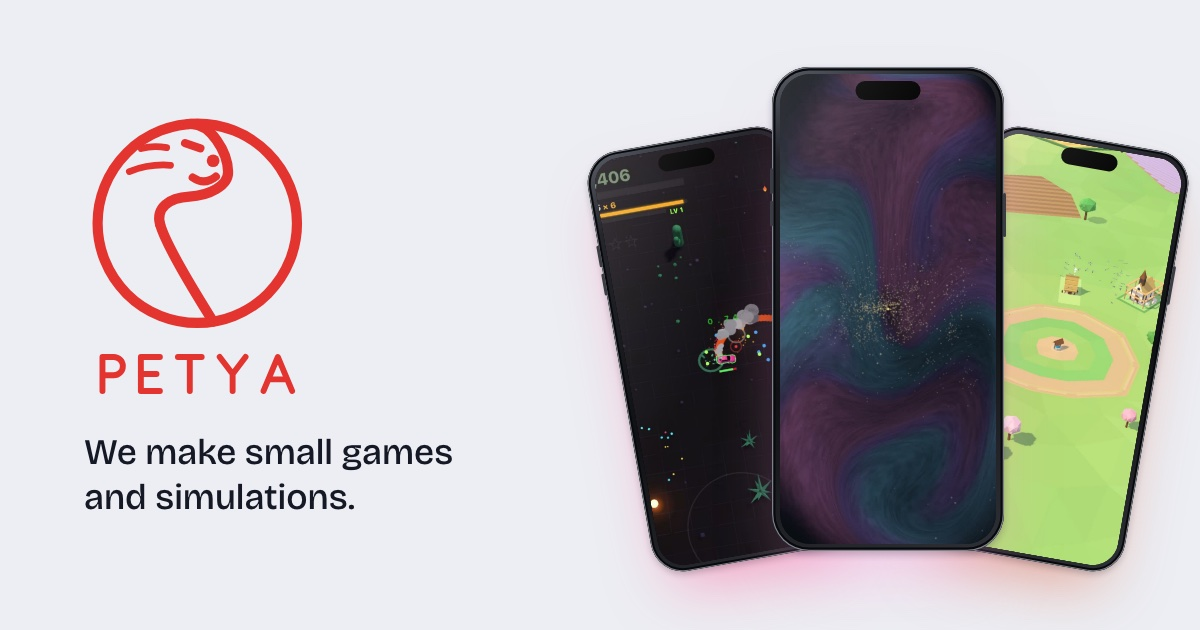
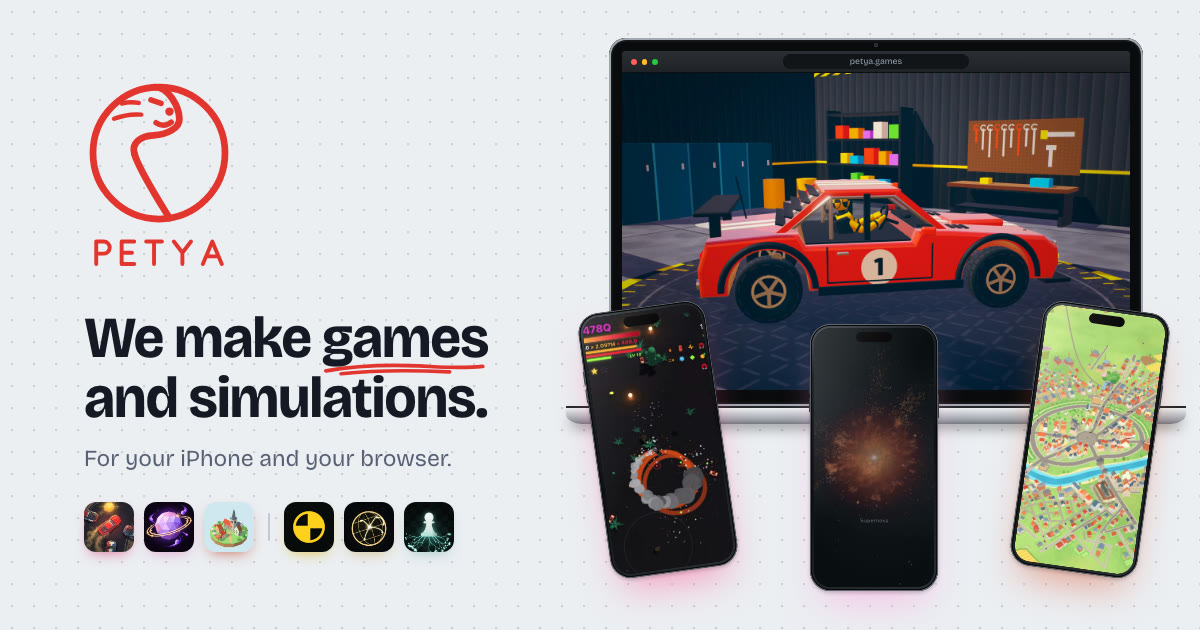
Redraw the share image: "We make games and simulations."
The home page's link preview still said "small" and showed only phones.
The new card matches the header: dotted paper, the red scribble under
"games", every game's icon, and a laptop with Fly, Dummy! behind the
three iPhone games. Its alt text and ?v= hash are updated in index.html.

diff --git a/index.html b/index.html
@@ -12,10 +12,10 @@
 <meta property="og:title" content="petya: indie games and simulations for iPhone">
 <meta property="og:description" content="Indie iPhone games by petya: Drift Survivors, a one-finger drift racer; Pocket Cosmo, grow stardust into a galaxy; and Pocket Metropolis, watch a city grow.">
 <meta property="og:url" content="https://petya.games/">
-<meta property="og:image" content="https://petya.games/media/share.jpg?v=63bd54e5e1">
+<meta property="og:image" content="https://petya.games/media/share.jpg?v=f7d6a89022">
 <meta property="og:image:width" content="1200">
 <meta property="og:image:height" content="630">
-<meta property="og:image:alt" content="petya: We make small games and simulations.">
+<meta property="og:image:alt" content="petya: We make games and simulations. For your iPhone and your browser.">
 <meta name="twitter:card" content="summary_large_image">
 <script type="application/ld+json">{"@context":"https://schema.org","@graph":[{"@type":"WebSite","@id":"https://petya.games/#site","url":"https://petya.games/","name":"petya","description":"Indie iPhone games by petya: Drift Survivors, a one-finger drift racer; Pocket Cosmo, grow stardust into a galaxy; and Pocket Metropolis, watch a city grow.","publisher":{"@id":"https://petya.games/#org"}},{"@type":"Organization","@id":"https://petya.games/#org","name":"petya","url":"https://petya.games/","logo":"https://petya.games/assets/apple-touch-icon.png"}]}</script>
 <link rel="icon" href="/assets/favicon.svg" type="image/svg+xml">
